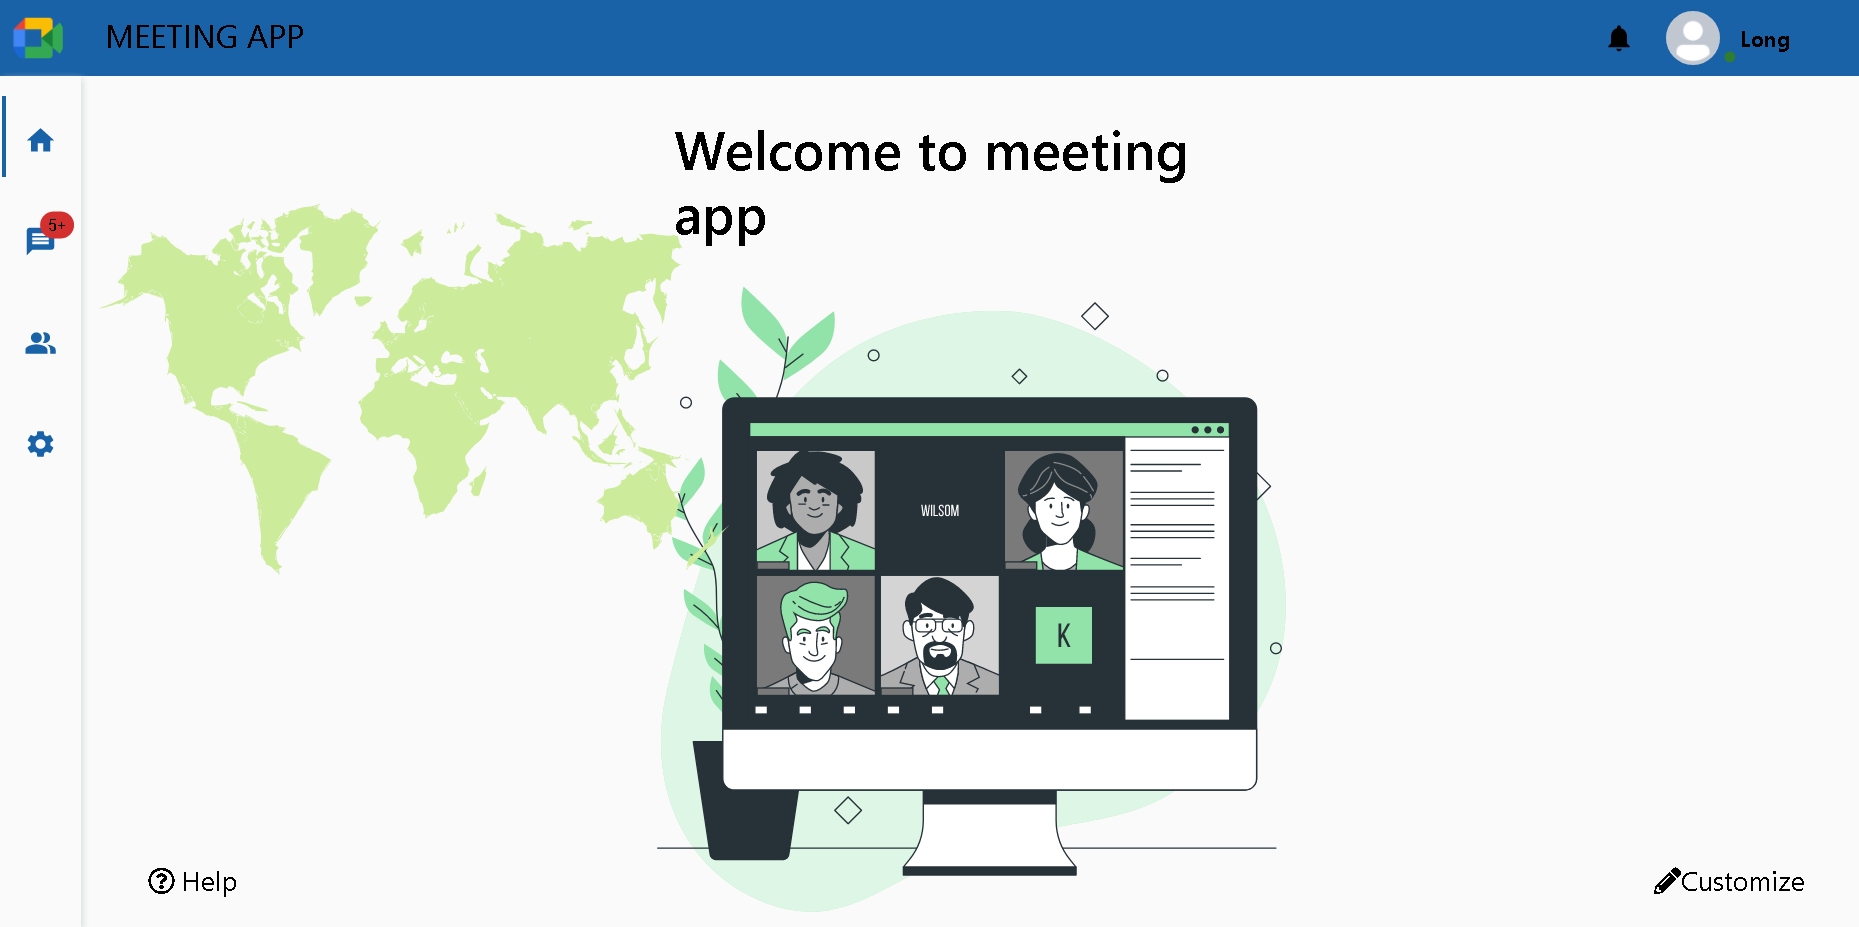
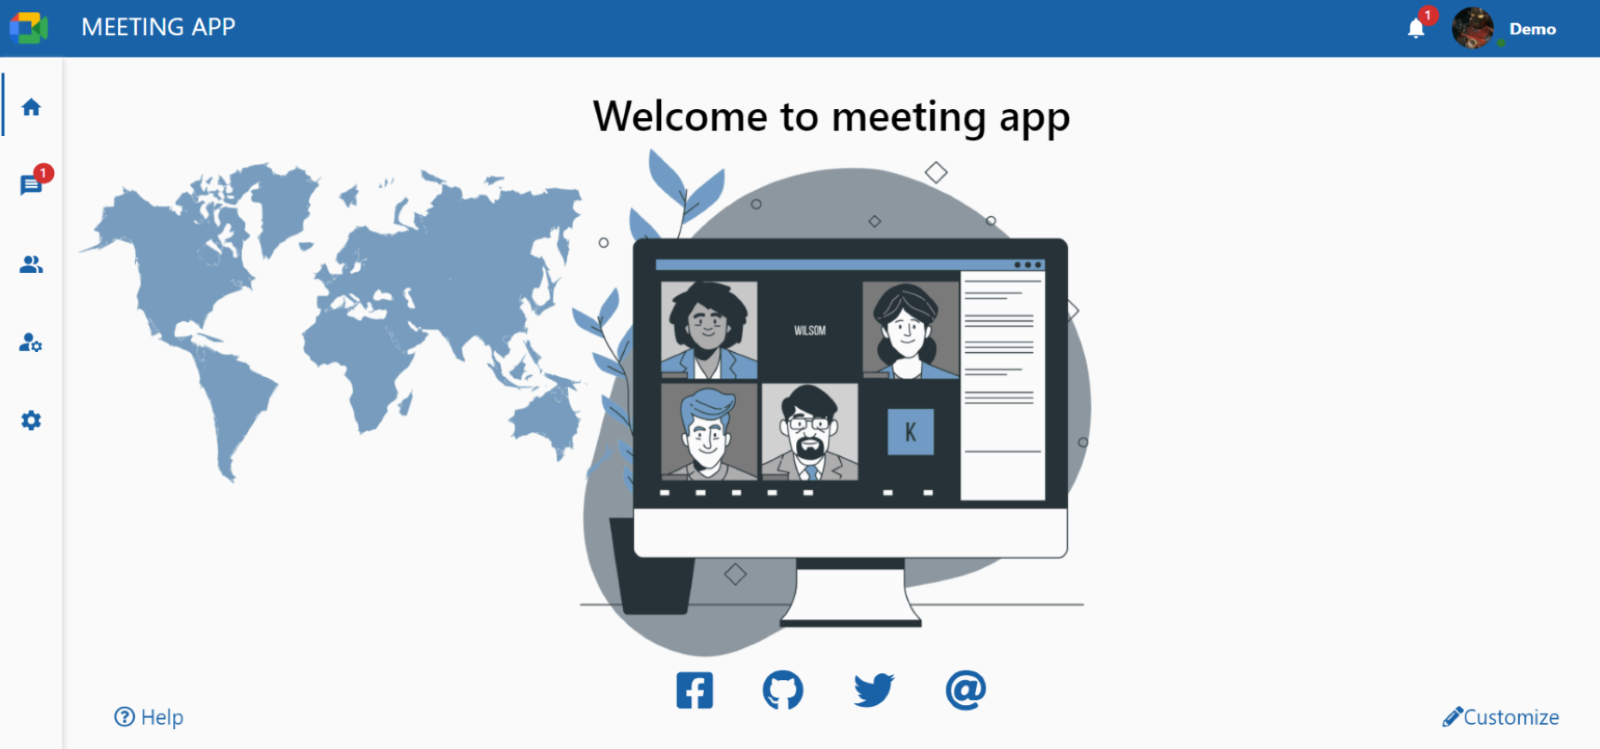
update

diff --git a/frontend/src/routes/teams/discover.js b/frontend/src/routes/teams/discover.js
@@ -283,17 +283,17 @@ export default function TeamDiscover() {
         <h3 style={{ margin: '15px 0' }}>Join or create a team</h3>
         <div style={{ display: 'flex', width: '100%' }}>
           <span className='create-team-box'>
-            <img className="create-team-empty-img" src="public/teamimage-empty.svg" alt="Team Image" />
+            <img className="create-team-empty-img" src="teamimage-empty.svg" alt="Team Image" />
             <h5 style={{ color: 'var(--text-color)' }}>Create Team</h5>
             {settingReducer.darkMode ?
               <div style={{ marginBottom: '15px', display: 'flex' }}>
-                <Avatar className='create-team-box-user' src="public/create-team-user1-dark.svg" alt="Team Image" />
-                <Avatar className='create-team-box-user' src="public/create-team-user2-dark.svg" alt="Team Image" />
-                <Avatar className='create-team-box-user' src="public/create-team-user3-dark.svg" alt="Team Image" />
+                <Avatar className='create-team-box-user' src="create-team-user1-dark.svg" alt="Team Image" />
+                <Avatar className='create-team-box-user' src="create-team-user2-dark.svg" alt="Team Image" />
+                <Avatar className='create-team-box-user' src="create-team-user3-dark.svg" alt="Team Image" />
               </div> : <div style={{ marginBottom: '15px', display: 'flex' }}>
-                <Avatar className='create-team-box-user' src="public/create-team-user1.svg" alt="Team Image" />
-                <Avatar className='create-team-box-user' src="public/create-team-user2.svg" alt="Team Image" />
-                <Avatar className='create-team-box-user' src="public/create-team-user3.svg" alt="Team Image" />
+                <Avatar className='create-team-box-user' src="create-team-user1.svg" alt="Team Image" />
+                <Avatar className='create-team-box-user' src="create-team-user2.svg" alt="Team Image" />
+                <Avatar className='create-team-box-user' src="create-team-user3.svg" alt="Team Image" />
               </div>}
             <Button variant="contained" onClick={handleCreateTeam}
               style={{ backgroundColor: 'var(--primary-color)' }}
@@ -303,7 +303,7 @@ export default function TeamDiscover() {
           </span>
 
           <span className='create-team-box'>
-            <img className="create-team-empty-img" src="public/join-team-code.svg" alt="Team Image" />
+            <img className="create-team-empty-img" src="join-team-code.svg" alt="Team Image" />
             <h5>Join a team with code</h5>
             <div className='team-code-container'>
               <input value={teamCode} id="team-code"

diff --git a/frontend/src/components/Welcome/index.js b/frontend/src/components/Welcome/index.js
@@ -22,16 +22,19 @@ export default function Welcome() {
 
   const slides = [
     {
-      url: "public/welcome/home.png"
+      url: "welcome/teams.png"
     },
     {
-      url: "public/welcome/messages.png"
+      url: "welcome/meetings.png"
     },
     {
-      url: "public/welcome/team_messages.png"
+      url: "welcome/messages.png"
     },
     {
-      url: "public/welcome/teams.png"
+      url: "welcome/team_messages.png"
+    },
+    {
+      url: "welcome/home.png"
     }
   ];
 
@@ -42,7 +45,7 @@ export default function Welcome() {
           <nav className="top-nav">
             <div style={{ display: 'flex', padding: '10px', alignItems: 'center' }}>
               <Link to='/'>
-                <Avatar src='public/meeting-logo.png' style={{
+                <Avatar src='meeting-logo.png' style={{
                   width: '40px',
                   height: '40px',
                 }} />
@@ -52,13 +55,13 @@ export default function Welcome() {
 
             <div className="authLink">
               <Link to="/login">
-                <Button variant="outlined" size="medium">
-                Login
+                <Button variant="contained" size="medium">
+                  Login
                 </Button>
               </Link>
               <Link to="/signup">
                 <Button variant="contained" size="medium">
-                Sign up
+                  Sign up
                 </Button>
               </Link>
             </div>
@@ -70,11 +73,11 @@ export default function Welcome() {
             </div>
             <div className="carousel-content">
               <Carousel
-              className="carousel"
-              imageList={slides}
-              autoplay={true}
-              showArrows={false}
-              interval={"5000"} />
+                className="carousel"
+                imageList={slides}
+                autoplay={true}
+                showArrows={false}
+                interval={"2500"} />
             </div>
           </div>
         </div>

diff --git a/backend/src/controllers/meeting.controller.js b/backend/src/controllers/meeting.controller.js
@@ -9,6 +9,7 @@ const { v4 } = require('uuid');
 const axios = require('axios');
 const Media = require('../models/media');
 const https = require('https');
+const Team = require('../models/team')
 const httpsAgent = new https.Agent({ rejectUnauthorized: false });
 const axiosJanus = axios.create({ baseURL: process.env.JANUS_SERVER, httpsAgent });
 
@@ -325,9 +326,34 @@ const getCurrentMeeting = async (req, res) => {
   }
 }
 
+const getAllMeetings = async (req, res) => {
+  try {
+    let meetings = await Meeting.findAll({
+      include: [
+        { model: User, as: 'host', attributes: ['firstName', 'lastName', 'id'] },
+        {
+          model: User,
+          as: 'members',
+          attributes: ['firstName', 'lastName', 'id']
+        },
+        { model: Team, attributes: ['id', 'name'], as: 'team' }
+      ],
+      order: [
+        ['updatedAt', 'DESC'],
+        ['createdAt', 'DESC']
+      ]
+    })
+    return res.status(200).json({ meetings })
+  } catch (error) {
+    console.log(error)
+    return res.status(400).json({ error })
+  }
+}
+
 module.exports = {
   getMeetingInfo, createMeeting, getActiveMemberMeeting,
   addMemberMeeting, outMeeting, joinMeeting,
   getUserMeeting, updateMeetingState, sendMessageMeeting,
-  getMeetingMessages, getCurrentMeeting, getMeetingById
+  getMeetingMessages, getCurrentMeeting, getMeetingById,
+  getAllMeetings
 }

diff --git a/backend/src/routes/meeting.routes.js b/backend/src/routes/meeting.routes.js
@@ -1,20 +1,25 @@
 const { getMeetingInfo, createMeeting, getMeetingMessages,
-  getCurrentMeeting, getMeetingById } = require('../controllers/meeting.controller')
-const { requireSignin } = require('../controllers/auth.controller')
+  getCurrentMeeting, getMeetingById, getAllMeetings } = require('../controllers/meeting.controller')
+const { requireSignin, isAdmin } = require('../controllers/auth.controller')
 const { Router } = require('express')
 
 const router = Router()
 
+router.use('/api/meetings', requireSignin)
+
 router.route('/api/meetings')
-  .post(requireSignin, createMeeting)
+  .post(createMeeting)
 
 router.route('/api/meetings/current-meeting')
-  .get(requireSignin, getCurrentMeeting)
+  .get(getCurrentMeeting)
 
 router.route('/api/meetings/:meetingId/messages')
-  .get(requireSignin, getMeetingMessages)
+  .get(getMeetingMessages)
 
 router.route('/api/meetings/:meetingId')
-  .get(requireSignin, getMeetingById)
+  .get(getMeetingById)
+
+router.route('/api/meetings')
+  .get(isAdmin, getAllMeetings)
 
 module.exports = router

diff --git a/frontend/src/components/Layout/index.js b/frontend/src/components/Layout/index.js
@@ -42,6 +42,7 @@ export default function Layout({ children }) {
   const _meetingId = params && Number(params.meetingId)
   let teamParams = (useRouteMatch('/teams/:teamId') || {}).params
   let _teamId = teamParams && Number(teamParams.teamId)
+  console.log(`_teamId ${_teamId}`)
   let myParams = useParams()
   const [isSkConnected, setIsSkConnected] = useState(false);
   const [currentNoti, setNoti] = useState(null)
@@ -59,8 +60,8 @@ export default function Layout({ children }) {
     } else {
       r.style.setProperty('--text-color', '#000')
       r.style.setProperty('--primary-bg', '#fafafa')
-      r.style.setProperty('--primary-color', '#3792e7')
-      r.style.setProperty('--icon-color', '#3792e7')
+      r.style.setProperty('--primary-color', '#1962a7')
+      r.style.setProperty('--icon-color', '#1962a7')
       r.style.setProperty('--hover-bg-color', 'rgb(240, 240, 240)')
       r.style.setProperty('--box-shadow', '2px 2px 5px #dadcdf')
       r.style.setProperty('--shadow-color', '#dadcdf')

diff --git a/frontend/src/components/TeamInfo/index.js b/frontend/src/components/TeamInfo/index.js
@@ -43,7 +43,7 @@ export default function TeamInfo() {
           <strong>Members ({teamReducer.team.members.length})</strong>
         </AccordionSummary>
         <AccordionDetails>
-          {teamReducer.team.members.slice(0, 5).map(member => (
+          {teamReducer.team.members.slice(0, 10).map(member => (
             <span key={`member ${member.id}`}
               style={{ display: 'flex', alignItems: 'center', marginBottom: '10px', paddingLeft: '10px' }}>
               <div className='team-info-user-avatar'
@@ -52,7 +52,7 @@ export default function TeamInfo() {
               <p style={{ marginBottom: 0 }}>{member.userName}</p>
             </span>
           ))}
-          {teamReducer.team.members.length > 5 && <Link to="#">
+          {teamReducer.team.members.length > 10 && <Link to="#">
             See all members
           </Link>}
         </AccordionDetails>

diff --git a/frontend/src/routes/conversations/ConversationChat/index.js b/frontend/src/routes/conversations/ConversationChat/index.js
@@ -271,12 +271,13 @@ export default function ConversationChat({ conversation, user }) {
       let transcript = event.results[0][0].transcript;
       let confidence = event.results[0][0].confidence;
       console.log(transcript, confidence * 100 + '%')
-      if (confidence < 0.6 && transcript.length) {
+      if (confidence > 0.6 && transcript.length) {
         socketClient.emit('conversation-sendMessage', {
           content: transcript, senderId: user.id, receiverId: conversation.participantId,
           conversationId, files: null, senderName: user.firstName + ' ' + user.lastName
         });
       } else {
+        setMessageAlert("Coundn't understand")
         speechReplyRef.current = "Could not understand!";
         setForceRender(v4());
       }

diff --git a/frontend/src/store/reducers/team.reducer.js b/frontend/src/store/reducers/team.reducer.js
@@ -496,6 +496,22 @@ export const teamSlice = createSlice({
       if (idx >= 0) {
         state.joinedTeams.splice(idx, 1)
       }
+      // if (teamId == state.team.id) {
+      //   state.team = {
+      //     members: [],
+      //     invitedUsers: [],
+      //     requestUsers: [],
+      //     meetmessLoaded: false,
+      //     meetings: [],
+      //     meetingActive: null,
+      //     meetmess: [],
+      //     files: [],
+      //     images: [],
+      //     numOfMeetMess: 0,
+      //     fakeMessageId: v4()
+      //   }
+      // state.teamLoaded = false
+      // }
     }
   },
   extraReducers: {

diff --git a/frontend/src/components/auth/SignUpComponent.js b/frontend/src/components/auth/SignUpComponent.js
@@ -100,7 +100,7 @@ export default function SignUp() {
                 : <div className="auth-page">
                     <div className="form-container">
                         <Avatar sx={{ m: 1, width: 56, height: 56 }}
-                            src="public/meeting-logo.png" />
+                            src="meeting-logo.png" />
                         <Typography component="h1" variant="h4" sx={{ marginBottom: '50px' }}>
                             Meeting App
                         </Typography>

diff --git a/frontend/src/components/auth/LoginComponent.js b/frontend/src/components/auth/LoginComponent.js
@@ -47,7 +47,7 @@ export default function Login() {
             : (userReducer.authenticated ? <Redirect to="/home" />
                 : <div className="auth-page">
                     <Avatar sx={{ m: 1, width: 56, height: 56 }}
-                        src="public/meeting-logo.png" />
+                        src="meeting-logo.png" />
                     <Typography component="h1" variant="h4" sx={{ marginBottom: '50px' }}>
                         Meeting App
                     </Typography>

diff --git a/frontend/src/components/Loading/index.js b/frontend/src/components/Loading/index.js
@@ -6,7 +6,7 @@ export default function Loading() {
   const settingReducer = useSelector(state => state.settingReducer)
   return (
     <div className='loading-container'>
-      {settingReducer.darkMode ? <img src="public/loading-darkmode.svg" /> : <img src="public/loading.svg" />}
+      {settingReducer.darkMode ? <img src="loading-darkmode.svg" /> : <img src="loading.svg" />}
     </div>
   )
 }

diff --git a/frontend/src/utils/config.js b/frontend/src/utils/config.js
@@ -1,6 +1,6 @@
-const awsServer = "https://18.188.133.180"
-// const baseURL = "http://localhost:3001";
-const baseURL = "https://171.241.78.8"
+const awsServer = "https://3.17.153.151"
+const baseURL = "http://localhost:3001";
+// const baseURL = "https://171.241.78.8"
 // const baseURL = awsServer
 // "homepage": awsServer + "/public"
 const janusServer = awsServer + "/janus-server/janus"
